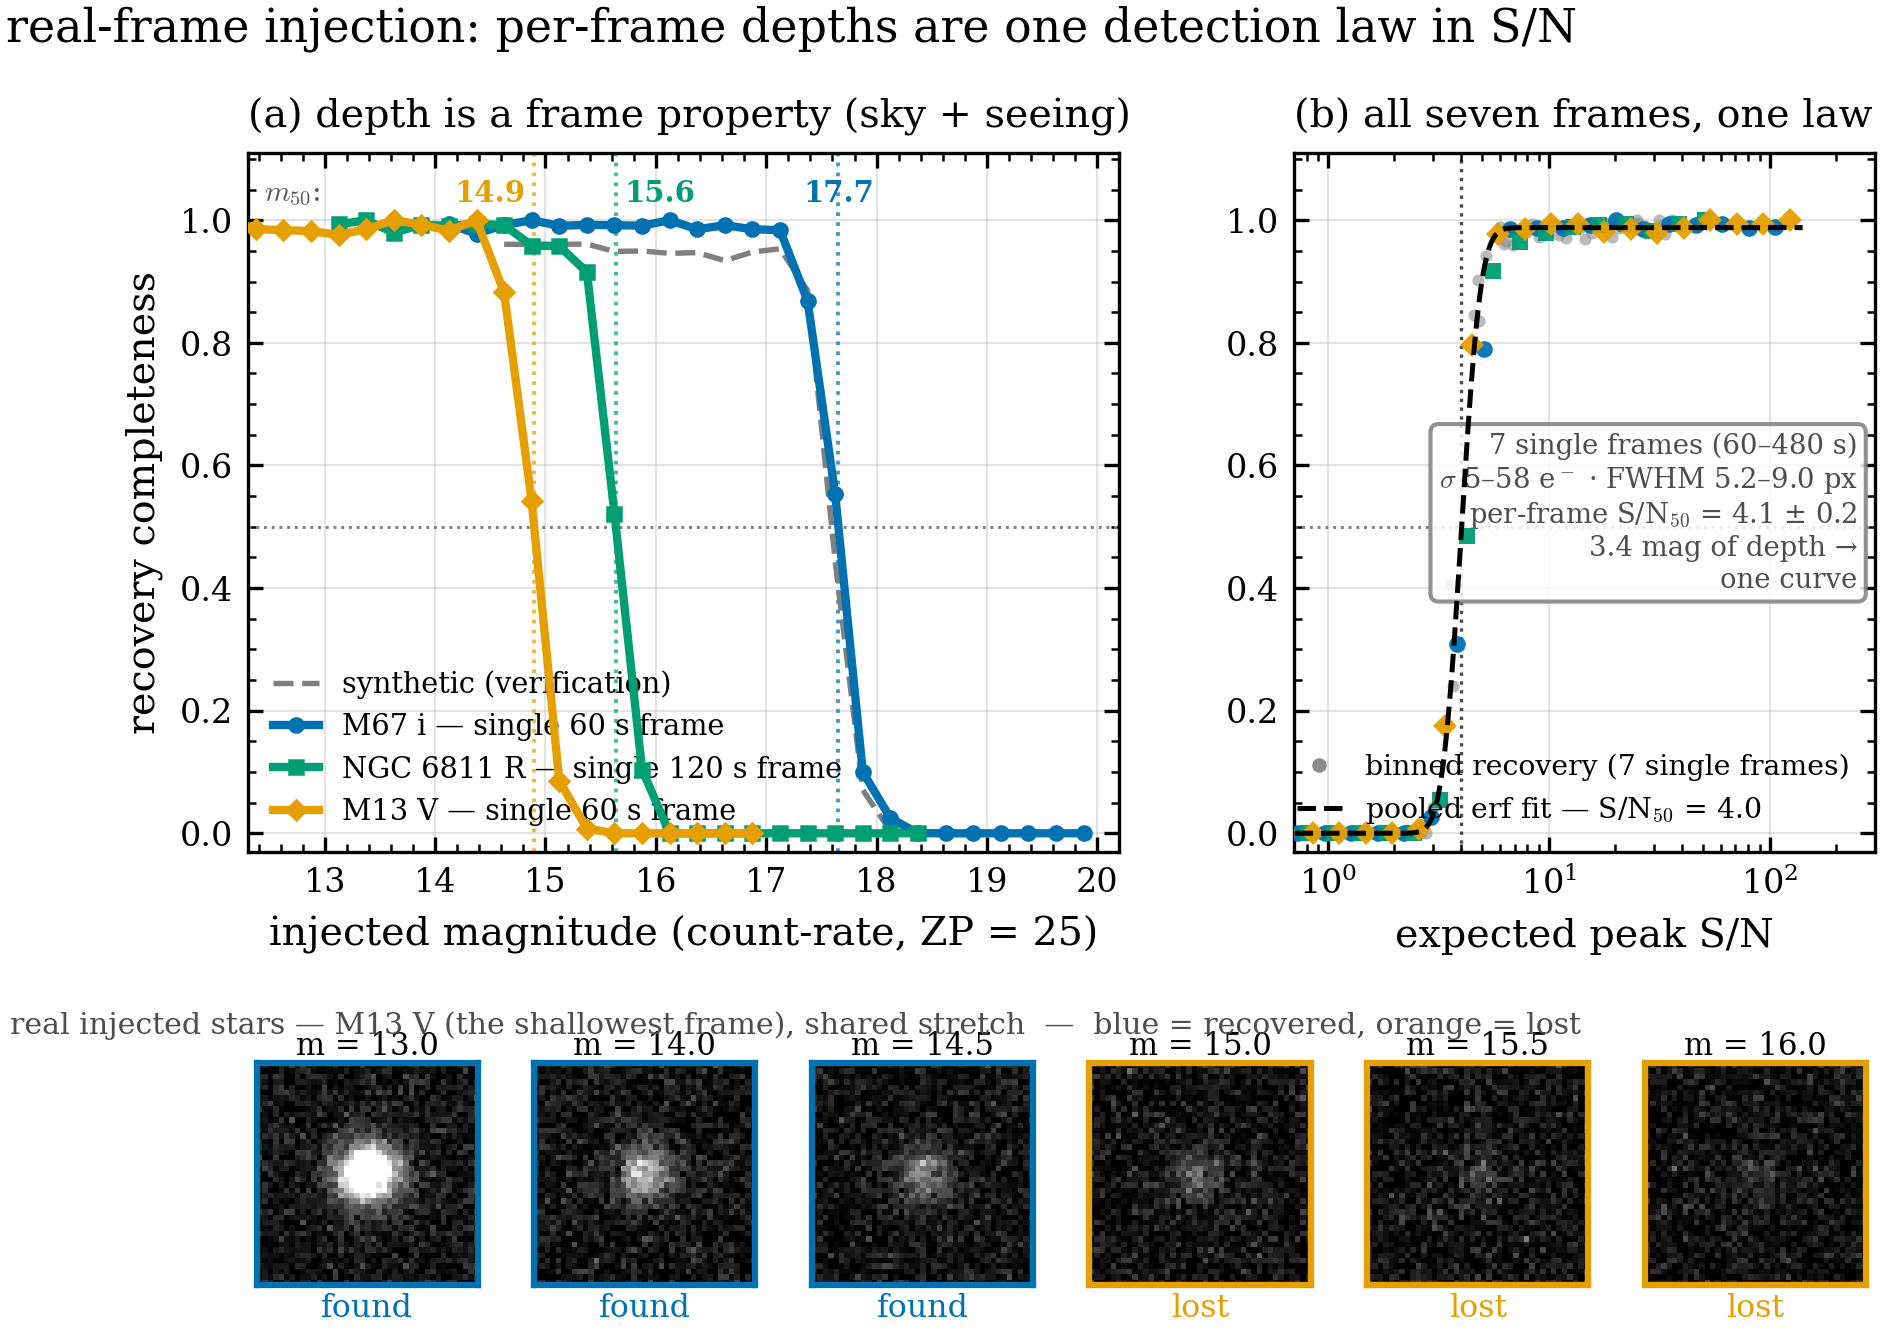
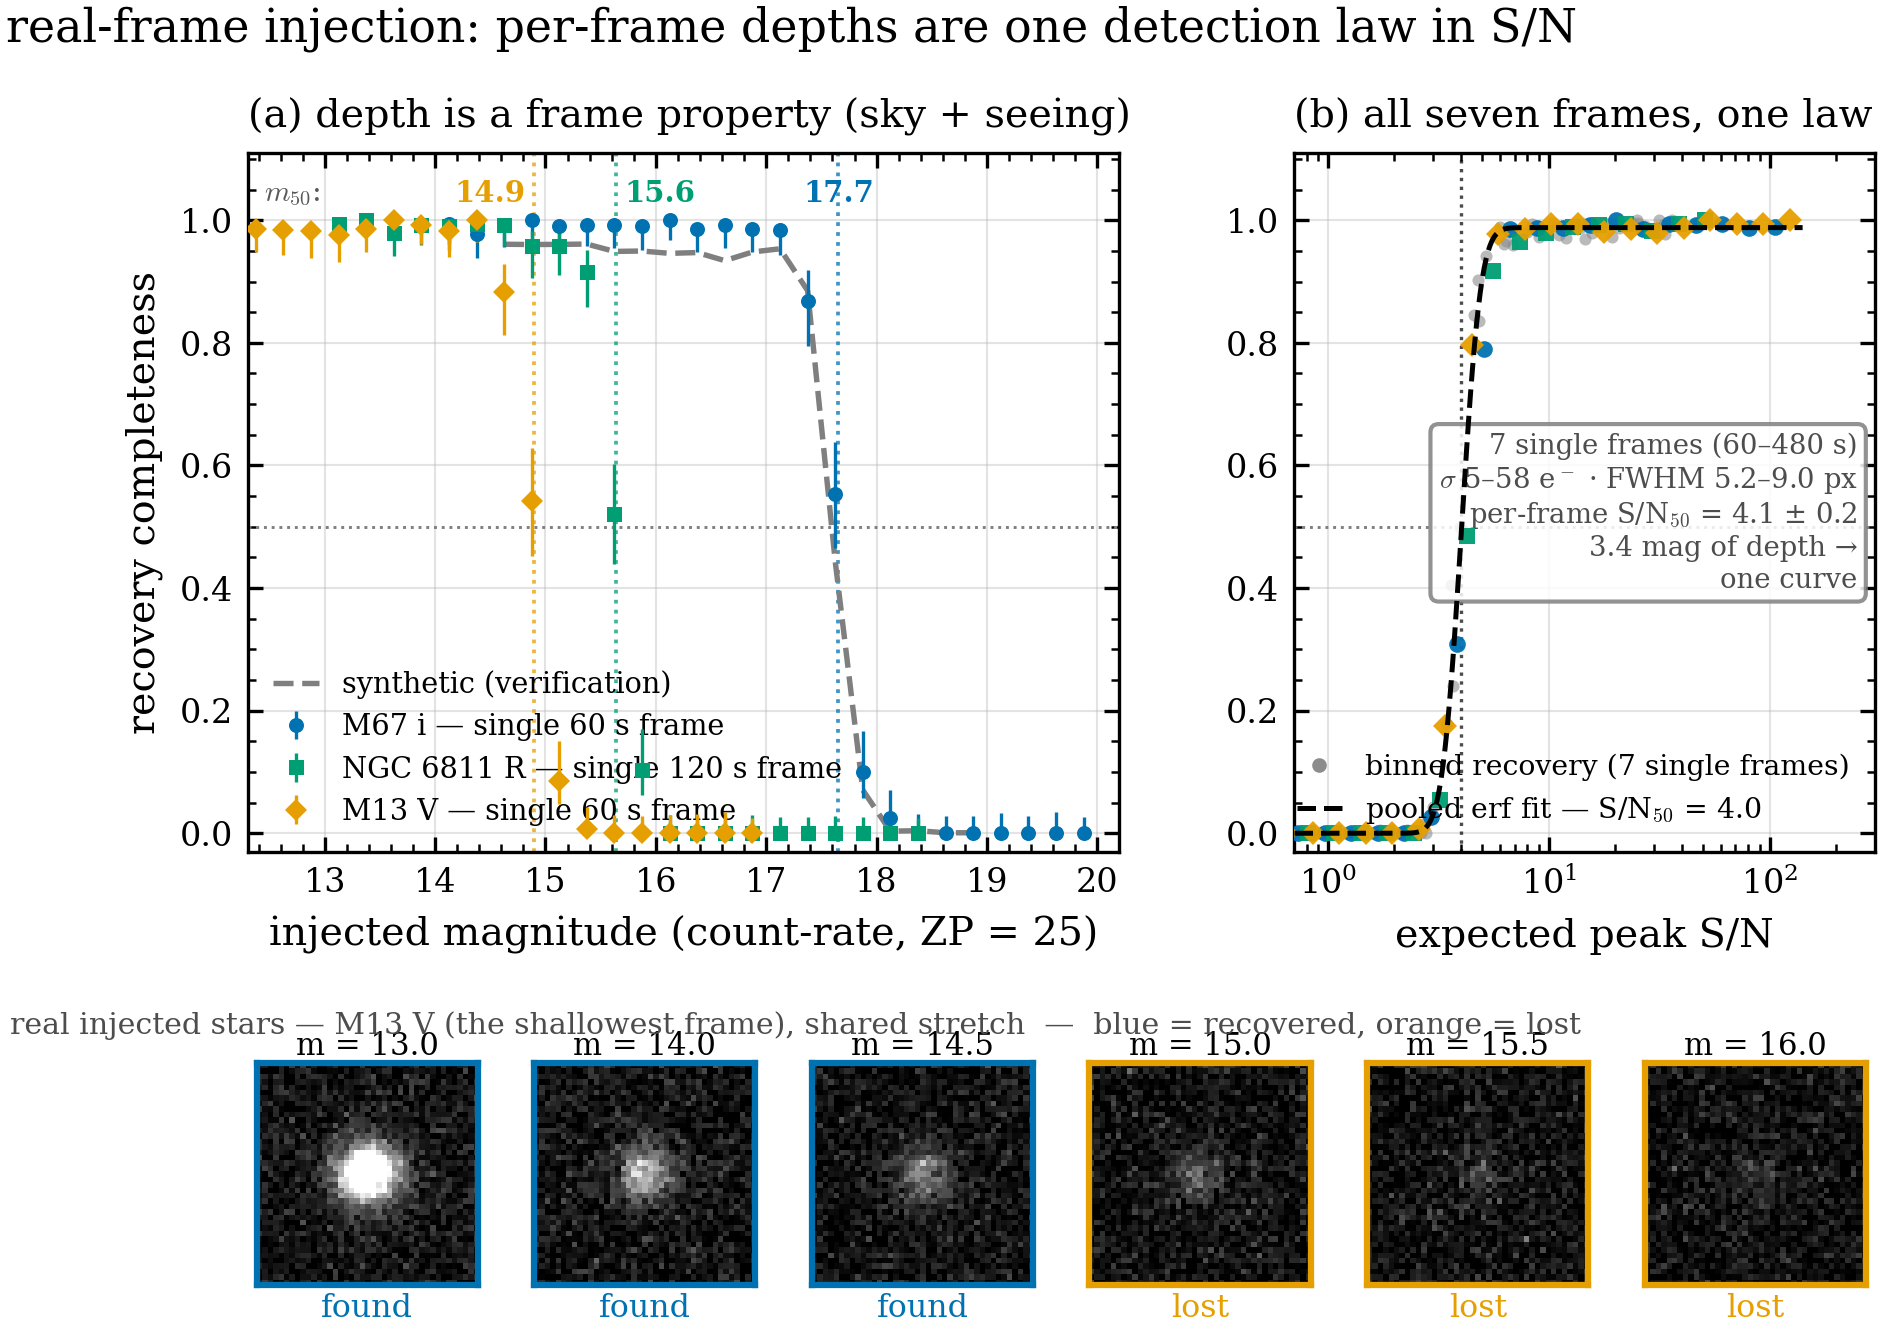
fig+caption(F5): panel (a) as points + Wilson 95% intervals, no data curve (AutoPhOT Fig12 style)
User caught the same data-vs-model ambiguity in (a) that was fixed in (b): binned
fractions were drawn as connected lines, reading as model curves. Now (a) shows
data as points with Wilson 95% binomial error bars and draws no curve through
them — the only curve is the grey dashed synthetic verification frame. m50 still
read off the binned points (no magnitude-space fit). Captions (EN+KO) updated.

diff --git a/validation/paper/fig_completeness_realvssynth.py b/validation/paper/fig_completeness_realvssynth.py
@@ -71,12 +71,22 @@ def read_off(mag, comp, level=0.5, increasing=False):
 
 
 def binned(x, rec, edges, nmin=15):
-    xs, cs = [], []
+    xs, cs, ns = [], [], []
     for lo, hi in zip(edges[:-1], edges[1:]):
         m = (x >= lo) & (x < hi)
         if m.sum() >= nmin:
-            xs.append(0.5 * (lo + hi)); cs.append(rec[m].mean())
-    return np.array(xs), np.array(cs)
+            xs.append(0.5 * (lo + hi)); cs.append(rec[m].mean()); ns.append(m.sum())
+    return np.array(xs), np.array(cs), np.array(ns)
+
+
+def wilson95(p, n):
+    """Wilson 95% binomial interval half-widths (lo, hi) for fraction p of n."""
+    z = 1.96
+    den = 1 + z * z / n
+    cen = (p + z * z / (2 * n)) / den
+    hw = z * np.sqrt(p * (1 - p) / n + z * z / (4 * n * n)) / den
+    return (np.maximum(p - np.clip(cen - hw, 0, 1), 0),
+            np.maximum(np.clip(cen + hw, 0, 1) - p, 0))
 
 
 def load_run(sub, frame_fits):
@@ -106,10 +116,10 @@ def main() -> int:
         r = load_run(sub, fp)
         r.update(label=label, expt=expt, ckey=ckey, mk=mk, hero=hero)
         e = np.arange(np.floor(r["mag"].min() / .25) * .25, r["mag"].max() + .25, .25)
-        r["mx"], r["mc"] = binned(r["mag"], r["rec"], e)
+        r["mx"], r["mc"], r["mn"] = binned(r["mag"], r["rec"], e)
         r["m50"] = read_off(r["mx"], r["mc"])
         le = np.arange(np.log10(r["snr"]).min(), np.log10(r["snr"]).max() + .12, .12)
-        r["sx"], r["sc"] = binned(np.log10(r["snr"]), r["rec"], le)
+        r["sx"], r["sc"], r["sn"] = binned(np.log10(r["snr"]), r["rec"], le)
         r["s50"] = 10 ** read_off(r["sx"], r["sc"], increasing=True)
         runs.append(r)
 
@@ -122,7 +132,7 @@ def main() -> int:
     allx = np.concatenate([np.log10(r["snr"]) for r in runs])
     allr = np.concatenate([r["rec"] for r in runs])
     pe = np.arange(allx.min(), allx.max() + .08, .08)
-    px, pc = binned(allx, allr, pe, nmin=40)
+    px, pc, pn = binned(allx, allr, pe, nmin=40)
     def model(x, A, mu, w):
         return A / 2 * (1 + _erf((x - mu) / (np.sqrt(2) * w)))
     popt, _ = curve_fit(model, px, pc, p0=[0.97, np.log10(4.0), 0.1])
@@ -142,8 +152,8 @@ def main() -> int:
     syn = syn[~syn["baseline_confounded"].astype(bool)]
     se = np.arange(np.floor(syn.magnitude_true.min() / .25) * .25,
                    syn.magnitude_true.max() + .25, .25)
-    sx_, sc_ = binned(syn.magnitude_true.to_numpy(float),
-                      syn.recovered.to_numpy(bool), se)
+    sx_, sc_, _ = binned(syn.magnitude_true.to_numpy(float),
+                         syn.recovered.to_numpy(bool), se)
     ax.plot(sx_, sc_, "--", color=PALETTE["grey"], lw=1.3, zorder=3,
             label="synthetic (verification)")
     m50_m13 = 14.9
@@ -151,8 +161,11 @@ def main() -> int:
         if not r["hero"]:
             continue
         col = C[r["ckey"]]
-        ax.plot(r["mx"], r["mc"], r["mk"], color=col, lw=2.0, ms=3.4, mfc=col,
-                zorder=6, label=f"{r['label']} — single {r['expt']} frame")
+        elo, ehi = wilson95(r["mc"], r["mn"])
+        ax.errorbar(r["mx"], r["mc"], yerr=[elo, ehi], fmt=r["mk"].lstrip("-"),
+                    color=col, ms=3.6, mfc=col, mew=0,
+                    elinewidth=0.8, capsize=0, zorder=6,
+                    label=f"{r['label']} — single {r['expt']} frame")
         ax.axvline(r["m50"], color=col, lw=0.9, ls=":", zorder=2, alpha=0.75)
         ha = "right" if r["label"].startswith("M13") else ("left" if r["label"].startswith("NGC") else "center")
         dx = -0.08 if ha == "right" else (0.08 if ha == "left" else 0.0)

diff --git a/validation/paper/captions/fig_completeness_realvssynth.md b/validation/paper/captions/fig_completeness_realvssynth.md
@@ -12,11 +12,14 @@ exposure, not a stack or a per-target average**: a dark-sky, sharp 60 s frame (M
 $i$, background noise $\sigma = 5\,e^-$ px$^{-1}$, FWHM 5.2 px), a bright-sky, sharp
 120 s frame (NGC 6811 $R$, $\sigma = 30\,e^-$, 5.3 px), and a bright-sky, soft 60 s
 frame (M13 $V$, $\sigma = 30\,e^-$, 7.4 px); the count-rate magnitude system makes
-depths of different exposure times directly comparable. Stars are injected with the empirical PSF measured from
-each frame, with source Poisson noise, through the identical detection path as the
-science reduction; injections confounded by a pre-existing source are excluded.
-Vertical dotted lines mark the 50% completeness depths, read off where each binned
-curve crosses 0.5 (no functional fit in magnitude space): $m_{50} = 17.65$, $15.64$,
+depths of different exposure times directly comparable. Binned recovered fractions
+are plotted as points with Wilson 95% binomial intervals; **no curve is drawn through
+the data** (AutoPhOT Fig. 12 presentation) — the only curve in the panel is the grey
+dashed synthetic verification frame. Stars are injected with the empirical PSF
+measured from each frame, with source Poisson noise, through the identical detection
+path as the science reduction; injections confounded by a pre-existing source are
+excluded. Vertical dotted lines mark the 50% completeness depths, read off where the
+binned fractions cross 0.5 (no functional fit in magnitude space): $m_{50} = 17.65$, $15.64$,
 and $14.90$, respectively. The 50% depth is a property of the frame — set by sky
 brightness and seeing — not of the method; the grey dashed curve shows the synthetic
 verification frame (known truth; $\sigma \simeq 8\,e^-$, FWHM 3.4 px, $m_{50}=17.59$),
@@ -68,9 +71,12 @@ family, 3,000 per frame), seeds fixed for reproducibility. Per-frame numbers:
 **(a)** 관측 조건 범위를 대표하는 세 실측 프레임 — **각각 스택이 아닌 단일 노출 1장**:
 어두운 하늘·양호한 시상(M67 $i$, 60초), 밝은 하늘·양호한 시상(NGC 6811 $R$, 120초),
 밝은 하늘·불량 시상(M13 $V$, 60초) — 의 주입 등급 대비 회수율(count-rate 기기등급,
-ZP = 25; 0.25등급 bin). count-rate 등급계라 노출시간이 달라도 깊이가 직접 비교된다. 각 프레임에서 측정한 경험적
-PSF로 광자 잡음을 포함해 주입하며, 과학 리덕션과 동일한 검출 경로를 통과한다. 점선은
-50% 완전도 깊이로, 등급 공간의 함수 피팅 없이 곡선이 0.5를 지나는 지점을 읽은 값이다:
+ZP = 25; 0.25등급 bin). count-rate 등급계라 노출시간이 달라도 깊이가 직접 비교된다.
+bin별 회수율은 **Wilson 95% 이항 구간을 단 점**으로 표시하며 **데이터 위에 곡선을 긋지
+않는다**(AutoPhOT Fig. 12 표현) — 패널의 유일한 곡선은 회색 파선의 합성 verification
+프레임이다. 각 프레임에서 측정한 경험적 PSF로 광자 잡음을 포함해 주입하며, 과학
+리덕션과 동일한 검출 경로를 통과한다. 점선은 50% 완전도 깊이로, 등급 공간의 함수 피팅
+없이 bin 점들이 0.5를 지나는 지점을 읽은 값이다:
 각각 $m_{50}=17.65,\ 15.64,\ 14.90$. **깊이는 하늘 밝기와 시상이 정하는 프레임 속성**
 이며, 가장 좋은 실측 프레임은 합성 verification 프레임(회색 파선, $m_{50}=17.59$)과
 같은 깊이에 도달한다. 하단 스트립: 가장 얕은 프레임(M13 $V$)에 실제로 주입된 별 6개
